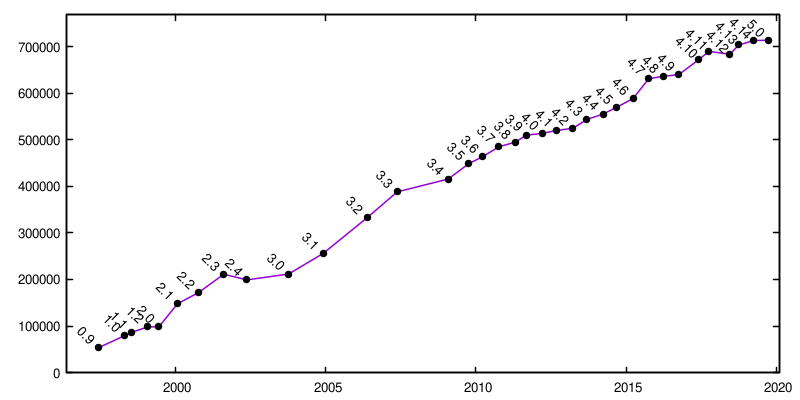
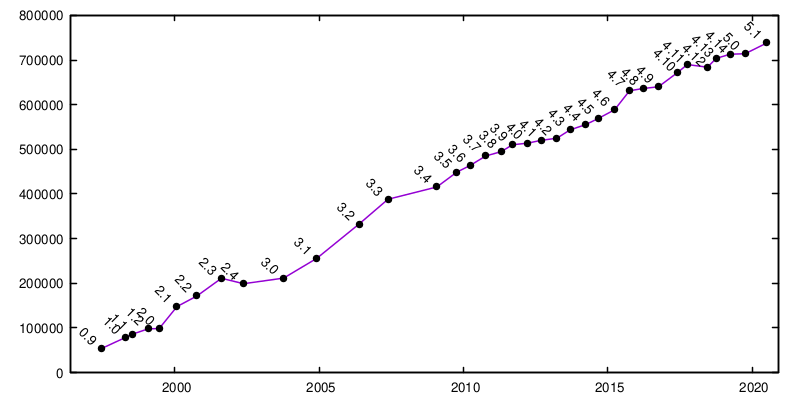
Publish 5.1-beta1

diff --git a/_posts/2020-06-09-cgal51-beta1.md b/_posts/2020-06-09-cgal51-beta1.md
@@ -1,0 +1,265 @@
+---
+layout: post
+title: "CGAL 5.1 beta1 released"
+description: "CGAL 5.1 beta1"
+category:
+tags: ["active-beta-release"]
+---
+{% include JB/setup %}
+
+<i class="glyphicon glyphicon-download"></i>
+<a href="https://github.com/CGAL/cgal/releases/tag/releases%2FCGAL-5.1-beta1">Download CGAL-5.1-beta1</a>
+
+<i class="glyphicon glyphicon-book"></i>
+<a href="https://doc.cgal.org/5.1/Manual/index.html">CGAL-5.1-beta1 documentation</a>
+
+<p>CGAL 5.1 offers the following improvements and new functionality over
+<a href="../../../../2019/11/08/cgal50">CGAL 5.0</a>:</p>
+
+<div class="product-detail-info" markdown="1">
+
+## Changelog
+
+### [Surface Mesh Topology](https://doc.cgal.org/5.1/Manual/packages.html#PkgSurfaceMeshTopologySummary) (new package)
+
+-   This package enables the computation of some topological invariants of surfaces, such as:
+    - test if two (closed) curves on a combinatorial surface are homotopic. Users can choose
+      between free homotopy and homotopy with fixed endpoints;
+    - test is a curve is contractible;
+    - compute shortest non-contractible cycles on a surface, with or without weights on edges.
+
+    See also the associated [blog entry](https://www.cgal.org/2020/05/08/Surface_mesh_topology/).
+
+### [Optimal Bounding Box](https://doc.cgal.org/5.1/Manual/packages.html#PkgOptimalBoundingBox) (new package)
+
+-   This package implements an optimization algorithm that aims to construct a close approximation
+    of the *optimal bounding box* of a mesh or a point set, which is defined as the smallest
+    (in terms of volume) bounding box that contains a given mesh or point set.
+
+    See also the associated [blog entry](https://www.cgal.org/2020/04/20/Optimal_bounding_box/).
+
+### [Tetrahedral Remeshing](https://doc.cgal.org/5.1/Manual/packages.html#PkgTetrahedralRemeshing) (new package)
+
+-   This package implements a tetrahedral isotropic remeshing algorithm,
+    that improves the quality of tetrahedra in terms of dihedral angles,
+    while targetting a given edge length.
+
+### [Tutorials](https://doc.cgal.org/5.1/Manual/tutorials.html)
+
+-   Two new, detailed tutorials have been added:
+    - [Surface Reconstruction from Point Clouds](https://doc.cgal.org/5.1/Manual/tuto_reconstruction.html),
+      which goes over a typical full processing pipeline in a CGAL environment.
+    - [Geographic Information Systems (GIS)](https://doc.cgal.org/5.1/Manual/tuto_gis.html),
+      which demonstrates usage of CGAL data structures and algorithms in the context of a typical GIS application.
+
+    In both tutorials, complete code is provided.
+
+### [2D and 3D Linear Geometry Kernel](https://doc.cgal.org/5.1/Manual/packages.html#PkgKernel23)
+
+-   Added the functor [`CompareSignedDistanceToLine_2`](https://doc.cgal.org/5.1/Kernel_23/classKernel_1_1CompareSignedDistanceToLine__2.html)
+    to the 2D/3D [`Kernel`](https://doc.cgal.org/5.1/Kernel_23/classKernel.html) concept to compare
+    the signed distance of two points to a line, or the line passing through two given points.
+    Corresponding functors in the model ([`Compare_signed_distance_to_line_2`](https://doc.cgal.org/5.1/Kernel_23/classKernel.html#a066d07dd592ac36ba7ee90988abd349f)) are also added.
+
+### [dD Geometry Kernel](https://doc.cgal.org/5.1/Manual/packages.html#PkgKernelD)
+
+-   The kernels [`Epick_d`](https://doc.cgal.org/5.1/Kernel_d/structCGAL_1_1Epick__d.html)
+    and [`Epeck_d`](https://doc.cgal.org/5.1/Kernel_d/structCGAL_1_1Epeck__d.html) gain two new functors:
+    [`Power_side_of_bounded_power_sphere_d`](https://doc.cgal.org/5.1/Kernel_d/classCGAL_1_1Epeck__d_1_1Power__side__of__bounded__power__sphere__d.html)
+    and [`Compute_squared_radius_smallest_orthogonal_sphere_d`](https://doc.cgal.org/5.1/Kernel_d/classCGAL_1_1Epeck__d_1_1Compute__squared__radius__smallest__orthogonal__sphere__d.html).
+    Those are essential for the computation of weighted alpha-complexes.
+
+### [Surface Mesh](https://doc.cgal.org/5.1/Manual/packages.html#PkgSurfaceMesh)
+
+-   **Breaking change**: The function [`CGAL::Surface_mesh::clear()`](https://doc.cgal.org/5.1/Surface_mesh/classCGAL_1_1Surface__mesh.html#a247d4ad3e6b106ae22e5306203812642)
+    now removes all non-default properties instead of just emptying them.
+
+### [CGAL and the Boost Graph Library (BGL)](https://doc.cgal.org/5.1/Manual/packages.html#PkgBGL)
+
+-   Added the function [`CGAL::alpha_expansion_graphcut()`](https://doc.cgal.org/5.1/BGL/group__PkgBGLPartition.html#ga79c3f58b577af51d1140450729d38f22),
+    which regularizes a multi-label partition over a user-defined graph.
+-   Added the function [`CGAL::regularize_face_selection_borders()`](https://doc.cgal.org/5.1/BGL/group__PkgBGLSelectionFct.html#gac71322b0cc7d7d59447531d5e5e345b6),
+    which uses this alpha expansion graphcut to regularize the borders of a selected faces on a triangle mesh.
+-   Added the function [`CGAL::set_triangulation_ids()`](https://doc.cgal.org/5.1/BGL/group__BGLGraphExternalIndices.html#ga1a22cf8bdde32fcdf1a4a78966eed630),
+    which must be used to initialize vertex, edge, and face indices of a triangulation meant to be used with BGL algorithms.
+
+### [3D Fast Intersection and Distance Computation](https://doc.cgal.org/5.1/Manual/packages.html#PkgAABBTree)
+
+-   The behavior of the internal search tree used to accelerate distance queries has changed:
+    usage of the internal search tree will now be enabled by default, and its construction
+    will be triggered by the first distance query. Automatic construction and usage can be disabled
+    by calling [`CGAL::AABB_tree::do_not_accelerate_distance_queries()`](https://doc.cgal.org/5.1/AABB_tree/classCGAL_1_1AABB__tree.html#abde62f52ccdf411847151aa5000ba4a4)
+    before the first distance query, and the tree can be built at any moment by calling
+    [`CGAL::AABB_tree::accelerate_distance_queries()`](https://doc.cgal.org/5.1/AABB_tree/classCGAL_1_1AABB__tree.html#a5d3877d3f2afbd09341eb4b8c230080b).
+-   **Breaking change**: [`CGAL::AABB_tree::accelerate_distance_queries()`](https://doc.cgal.org/5.1/AABB_tree/classCGAL_1_1AABB__tree.html#a5d3877d3f2afbd09341eb4b8c230080b)
+    and [`CGAL::AABB_tree::do_not_accelerate_distance_queries()`](https://doc.cgal.org/5.1/AABB_tree/classCGAL_1_1AABB__tree.html#abde62f52ccdf411847151aa5000ba4a4)
+    are no longer `const` functions.
+
+### [2D Arrangements](https://doc.cgal.org/5.1/Manual/packages.html#PkgArrangementOnSurface2)
+
+ -   Changed intersection return type from legacy [`CGAL::Object`](https://doc.cgal.org/5.1/STL_Extension/classCGAL_1_1Object.html)
+     to modern `boost::variant` in all traits concepts and models.
+     As there exists an implicit conversion from `boost::variant` to `CGAL::Object`, the
+     new code is backward compatible. However, it is recommended that all calls
+     to the intersection functions are fixed to use the new return type.
+
+### [2D Regularized Boolean Set-Operations](https://doc.cgal.org/5.1/Manual/packages.html#PkgBooleanSetOperations2)
+
+ -   Changed intersection return type from legacy [`CGAL::Object`](https://doc.cgal.org/5.1/STL_Extension/classCGAL_1_1Object.html)
+     to modern `boost::variant` in the concept [`ArrDirectionalTraits::Intersect_2`](https://doc.cgal.org/5.1/Boolean_set_operations_2/namespaceArrDirectionalTraits.html)
+     and its models.
+
+### [2D Minkowski Sums](https://doc.cgal.org/5.1/Manual/packages.html#PkgMinkowskiSum2)
+
+ -   Changed intersection return type from legacy [`CGAL::Object`](https://doc.cgal.org/5.1/STL_Extension/classCGAL_1_1Object.html)
+     to modern `boost::variant` in the (internally used) model `Arr_labeled_traits_2`.
+
+### [dD Spatial Searching](https://doc.cgal.org/5.1/Manual/packages.html#PkgSpatialSearchingD)
+
+-   The kd-tree can now be built in parallel: [`CGAL::Kd_tree::build()`](https://doc.cgal.org/5.1/Spatial_searching/classCGAL_1_1Kd__tree.html#a8559dbe4d7136fbc8ebab5ee290cbe06)
+    is given an optional template parameter `ConcurrencyTag` (default
+    value remains [`CGAL::Sequential_tag`](https://doc.cgal.org/5.1/STL_Extension/structCGAL_1_1Sequential__tag.html)
+    for backward compatibility).
+-   Improved the performance of the kd-tree in some cases:
+    - Not storing the points coordinates inside the tree usually
+      generates a lot of cache misses, leading to non-optimal
+      performance. This is the case for example
+      when indices are stored inside the tree, or to a lesser extent when the points
+      coordinates are stored in a dynamically allocated array (e.g., [`Epick_d`](https://doc.cgal.org/5.1/Kernel_d/structCGAL_1_1Epick__d.html)
+      with dynamic dimension) &mdash; we says "to a lesser extent" because the points
+      are re-created by the kd-tree in a cache-friendly order after its construction,
+      so the coordinates are more likely to be stored in a near-optimal order
+      on the heap.
+      In these cases, the new `EnablePointsCache` template parameter of the
+      [`CGAL::Kd_tree`](https://doc.cgal.org/5.1/Spatial_searching/classCGAL_1_1Kd__tree.html)
+      class can be set to `CGAL::Tag_true`. The points coordinates
+      will then be cached in an optimal way. This will increase memory
+      consumption but provides better search performance. See the updated
+      [`GeneralDistance`](https://doc.cgal.org/5.1/Spatial_searching/classGeneralDistance.html)
+      and [`FuzzyQueryItem`](https://doc.cgal.org/5.1/Spatial_searching/classFuzzyQueryItem.html)
+      concepts for additional requirements when using such a cache.
+    - In most cases (e.g., Euclidean distance), the distance computation
+      algorithm knows before its end that the distance will be greater
+      than or equal to some given value. This is used in the (orthogonal)
+      k-NN search to interrupt some distance computations before its end,
+      saving precious milliseconds, in particular in medium-to-high dimension.
+
+### [Intersecting Sequences of dD Iso-oriented Boxes](https://doc.cgal.org/5.1/Manual/packages.html#PkgBoxIntersectionD)
+
+-   Added parallel versions of the functions
+    [`CGAL::box_intersection_d()`](https://doc.cgal.org/5.1/Box_intersection_d/group__PkgBoxIntersectionD__box__intersection__d.html)
+    and [`CGAL::box_self_intersection_d()`](https://doc.cgal.org/5.1/Box_intersection_d/group__PkgBoxIntersectionD__box__self__intersection__d.html).
+
+### [Spatial Sorting](https://doc.cgal.org/5.1/Manual/packages.html#PkgSpatialSorting)
+
+-   Added parallel versions of the functions
+    [`CGAL::hilbert_sort()`](https://doc.cgal.org/5.1/Spatial_sorting/group__PkgSpatialSortingFunctions.html#ga9da67204747ac19dff65f9c9ff2fca9e)
+    and [`CGAL::spatial_sort()`](https://doc.cgal.org/5.1/Spatial_sorting/group__PkgSpatialSortingFunctions.html#ga7c597c11a3b3859234ff68526cead84d)
+    in 2D and 3D when the median policy is used.
+    The parallel versions use up to four threads in 2D, and up to eight threads in 3D.
+
+### [3D Convex Hulls](https://doc.cgal.org/5.1/Manual/packages.html#PkgConvexHull3)
+
+-   A new overload for [`CGAL::convex_hull_3()`](https://doc.cgal.org/5.1/Convex_hull_3/group__PkgConvexHull3Functions.html#gaa02a3013808fc9a2e5e2f42b9fde8e30)
+    that takes a model of [`VertexListGraph`](https://doc.cgal.org/5.1/BGL/classVertexListGraph.html) has been added.
+-   The long-deprecated function `CGAL::convex_hull_3_to_polyhedron_3()` has been removed.
+    The function [`CGAL::convex_hull_3_to_face_graph()`](https://doc.cgal.org/5.1/Convex_hull_3/group__PkgConvexHull3Functions.html#ga2750f7f197588ed643679835c748c671)
+    should be used instead.
+
+### [Polygon Mesh Processing](https://doc.cgal.org/5.1/Manual/packages.html#PkgPolygonMeshProcessing)
+
+-   Added the function [`CGAL::Polygon_mesh_processing::volume_connected_component()`](https://doc.cgal.org/5.1/Polygon_mesh_processing/group__PMP__orientation__grp.html#ga133e58280959c152770525f27bb42b91),
+    which can be used to get information about the nesting of the connected components of a given triangle mesh and about
+    the volumes defined.
+-   Added the function [`CGAL::Polygon_mesh_processing::remove_connected_components_of_negligible_size()`](https://doc.cgal.org/5.1/Polygon_mesh_processing/group__PMP__repairing__grp.html#gac544fcaba1d59d330a3a1536caff392a),
+    which can be used to remove connected components whose area or volume is under a certain threshold.
+    Area and volume thresholds are either specified by the user or deduced from the bounding box of the mesh.
+-   Added a new named parameter for [`CGAL::Polygon_mesh_processing::keep_large_connected_components()`](https://doc.cgal.org/5.1/Polygon_mesh_processing/group__keep__connected__components__grp.html#ga48e7b3e6922ee78cf8ce801e3e325d9a)
+    and [`CGAL::Polygon_mesh_processing::remove_connected_components_of_negligible_size`](https://doc.cgal.org/5.1/Polygon_mesh_processing/group__PMP__repairing__grp.html#gac544fcaba1d59d330a3a1536caff392a),
+    which can be used to perform a dry run of the operation, meaning that the function will return the number of connected
+    components that would be removed with the specified threshold, but without actually removing them.
+-   Added the function [`CGAL::Polygon_mesh_processing::split()`](https://doc.cgal.org/5.1/Polygon_mesh_processing/group__PMP__corefinement__grp.html#gaa491feee9e41f725332bea0ea1215578),
+    which can be used to split meshes along a mesh or a plane.
+-   Added the function [`CGAL::Polygon_mesh_processing::split_connected_components()`](https://doc.cgal.org/5.1/Polygon_mesh_processing/group__keep__connected__components__grp.html#ga9ddd1e4b915a4232b1ce5611985302aa)
+    to split a single mesh containing several connected components into several meshes containing one connected component.
+-   Added the functions [`CGAL::Polygon_mesh_processing::merge_reversible_connected_components()`](https://doc.cgal.org/5.1/Polygon_mesh_processing/group__PMP__orientation__grp.html#gae25c1198a89c53d5df2f29dd57fda5ca),
+    [`CGAL::Polygon_mesh_processing::duplicate_non_manifold_edges_in_polygon_soup()`](https://doc.cgal.org/5.1/Polygon_mesh_processing/group__PMP__orientation__grp.html#ga2aa4f7b500dc51d1fc4747705a050946),
+    and [`CGAL::Polygon_mesh_processing::orient_triangle_soup_with_reference_triangle_mesh()`](https://doc.cgal.org/5.1/Polygon_mesh_processing/group__PMP__orientation__grp.html#ga31779672b3afd660664fc9a6c4fdf74d),
+    which can be helpful when repairing a polygon soup.
+-   Added the function [`CGAL::Polygon_mesh_processing::sample_triangle_soup()`](https://doc.cgal.org/5.1/Polygon_mesh_processing/group__PMP__distance__grp.html#gac7af41d13bf1a7c30852be266ac81db5),
+    which generates points on a triangle soup surface.
+-   Added parallel versions of the functions [`CGAL::Polygon_mesh_processing::does_self_intersect()`](https://doc.cgal.org/5.1/Polygon_mesh_processing/group__PMP__intersection__grp.html#gad9fe5d8b433545b69154f43935a11a3b)
+    and [`CGAL::Polygon_mesh_processing::self_intersections()`](https://doc.cgal.org/5.1/Polygon_mesh_processing/group__PMP__intersection__grp.html#gaf19c80ec12cbff7ebe9e69453f1d40b8).
+-   The function [`CGAL::Polygon_mesh_processing::stitch_borders()`](https://doc.cgal.org/5.1/Polygon_mesh_processing/group__PMP__repairing__grp.html#ga8ae4352e67d2b099994ac8990c13bd41)
+    now returns the number of halfedge pairs that were stitched.
+-   Added the function [`CGAL::Polygon_mesh_processing::polygon_mesh_to_polygon_soup()`](https://doc.cgal.org/5.1/Polygon_mesh_processing/group__PMP__repairing__grp.html#ga76648a509409ff3c3ad3f71eff8ce9d9).
+-   The function [`CGAL::Polygon_mesh_processing::polygon_soup_to_polygon_mesh`](https://doc.cgal.org/5.1/Polygon_mesh_processing/group__PMP__repairing__grp.html#ga0dec58e8a0112791f72ebbe77bac074b)
+    now allows passing a point map (for the point range) and a vertex point map (for the polygon mesh) via named parameters.
+
+### [Point Set Processing](https://doc.cgal.org/5.1/Manual/packages.html#PkgPointSetProcessing3)
+
+-   **Breaking change:** [`CGAL::remove_outliers()`](https://doc.cgal.org/5.1/Point_set_processing_3/group__PkgPointSetProcessing3Algorithms.html#ga1ab1dcee59caadde50572c5a504cc41a)
+    has been parallelized and thus has a new template parameter `ConcurrencyTag`.
+    To update your code simply add as first template parameter `CGAL::Sequential_tag` or `CGAL::Parallel_tag`
+    when calling this function.
+-   Add a function [`CGAL::cluster_point_set()`](https://doc.cgal.org/5.1/Point_set_processing_3/group__PkgPointSetProcessing3Algorithms.html#gafee41d60b5a257ae034e9157d0af8e46)
+    that segments a point cloud into connected components based on a distance threshold.
+-   Added wrapper functions for registration:
+    - [`CGAL::OpenGR::compute_registration_transformation()`](https://doc.cgal.org/5.1/Point_set_processing_3/group__PkgPointSetProcessing3Algorithms.html#gab81663c718960780ddb176aad845e8cd),
+      which computes the registration transformation for two point sets using the Super4PCS algorithm
+      implemented in the third party library [OpenGR](https://storm-irit.github.io/OpenGR/index.html).
+    - [`CGAL::OpenGR::register_point_sets()`](https://doc.cgal.org/5.1/Point_set_processing_3/group__PkgPointSetProcessing3Algorithms.html#ga6194087f512e4e23dd945a9364d0931d),
+      which computes the registration transformation for two point sets using the Super4PCS algorithm
+      implemented in the third party library [OpenGR](https://storm-irit.github.io/OpenGR/index.html),
+      and registers the points sets by transforming the data point set using the computed transformation.
+    - [`CGAL::pointmatcher::compute_registration_transformation()`](https://doc.cgal.org/5.1/Point_set_processing_3/group__PkgPointSetProcessing3Algorithms.html#gaf75af5c1634fa83fa05a33e95570b127)
+      computes the registration transformation for two point sets using ICP algorithm implemented
+      in the third party library [libpointmatcher](https://github.com/ethz-asl/libpointmatcher).
+    - [`CGAL::pointmatcher::register_point_sets()`](https://doc.cgal.org/5.1/Point_set_processing_3/group__PkgPointSetProcessing3Algorithms.html#gaa222278e20a3ce41930d37326cd54ef9),
+      which computes the registration transformation for two point sets using ICP algorithm implemented
+      in the third party library [libpointmatcher](https://github.com/ethz-asl/libpointmatcher), and registers
+      the points sets by transforming the data point set using the computed transformation.
+
+### [2D Triangulations](https://doc.cgal.org/5.1/Manual/packages.html#PkgTriangulation2)
+
+-   To fix an inconsistency between code and documentation and to clarify which types of intersections
+    are truly allowed in constrained Delaunay triangulations, the tag [`CGAL::No_intersection_tag`](https://doc.cgal.org/5.1/Triangulation_2/structCGAL_1_1No__intersection__tag.html)
+    has been deprecated in favor of two new tags: [`CGAL::No_constraint_intersection_tag`](https://doc.cgal.org/5.1/Triangulation_2/structCGAL_1_1No__constraint__intersection__tag.html)
+    and [`CGAL::No_constraint_intersection_requiring_constructions_tag`](https://doc.cgal.org/5.1/Triangulation_2/structCGAL_1_1No__constraint__intersection__requiring__constructions__tag.html).
+    The latter is equivalent to the now-deprecated `CGAL::No_intersection_tag`, and allows constraints
+    to intersect as long as no new point has to be created to represent that intersection (for example,
+    the intersection of two constraint segments in a 'T'-like junction is an existing point
+    and as such does not require any new construction). The former tag, `CGAL::No_constraint_intersection_tag`,
+    does not allow any intersection, except for the configuration of two constraints having a single
+    common endpoints, for convience.
+-   Added the function [`CGAL::split_subconstraint_graph_into_constraints()`](https://doc.cgal.org/5.1/Triangulation_2/classCGAL_1_1Constrained__triangulation__plus__2.html#adea77f5db5cd4dfae302e4502f1caa85)
+    to [`Constrained_triangulation_plus_2`](https://doc.cgal.org/5.1/Triangulation_2/classCGAL_1_1Constrained__triangulation__plus__2.html) to initialize the constraints
+    from a soup of disconnected segments that should first be split into polylines.
+
+### [3D Triangulations](https://doc.cgal.org/5.1/Manual/packages.html#PkgTriangulation3)
+
+-   The member function [`CGAL::Triangulation_3::file_input()`](https://doc.cgal.org/5.1/Triangulation_3/group__PkgIOTriangulation3.html#gadd94d0613e2dd9cdd2e88d2c74d5b1c8)
+    have been added. It allows to load a [`CGAL::Triangulation_3`](https://doc.cgal.org/5.1/Triangulation_3/classCGAL_1_1Triangulation__3.html)
+    from an input stream, using functors to create vertices and cells.
+
+### [3D Triangulation Data Structure](https://doc.cgal.org/5.1/Manual/packages.html#PkgTDS3)
+
+-   The member function [`CGAL::TDS_3::file_input()`](https://doc.cgal.org/5.1/TDS_3/group__PkgIOTDS3.html#ga381446a02a9240cc83e79c48b37cd119)
+    have been added. It allows to load a [`CGAL::Triangulation_data_structure_3`](https://doc.cgal.org/5.1/TDS_3/classCGAL_1_1Triangulation__data__structure__3.html)
+    from an input stream, using functors to create vertices and cells.
+
+### [Surface Mesh Simplification](https://doc.cgal.org/5.1/Manual/packages.html#PkgSurfaceMeshSimplification)
+
+-   Added a [new simplification method](https://doc.cgal.org/5.1/Surface_mesh_simplification/classCGAL_1_1Surface__mesh__simplification_1_1GarlandHeckbert__policies.html)
+    based on the quadric error defined by Garland and Heckbert.
+-   The concept `EdgeProfile` has been removed. This concept was not actually in use as the CGAL-provided model [`CGAL::Edge_profile`](https://doc.cgal.org/5.1/Surface_mesh_simplification/classCGAL_1_1Surface__mesh__simplification_1_1Edge__profile.html)
+    was imposed to the user. Other concepts have been clarified to reflect the fact that the API uses this particular class.
+
+### [STL Extensions for CGAL](https://doc.cgal.org/5.1/Manual/packages.html#PkgSTLExtension)
+
+-   Added a new concurrency tag: [`CGAL::Parallel_if_available_tag`](https://doc.cgal.org/5.1/STL_Extension/structCGAL_1_1Parallel__if__available__tag.html).
+    This tag is a convenience typedef to [`CGAL::Parallel_tag`](https://doc.cgal.org/5.1/STL_Extension/structCGAL_1_1Parallel__tag.html)
+    if the third party library TBB has been found and linked with, and to
+    [`CGAL::Sequential_tag`](https://doc.cgal.org/5.1/STL_Extension/structCGAL_1_1Sequential__tag.html) otherwise.
+
+</div>
